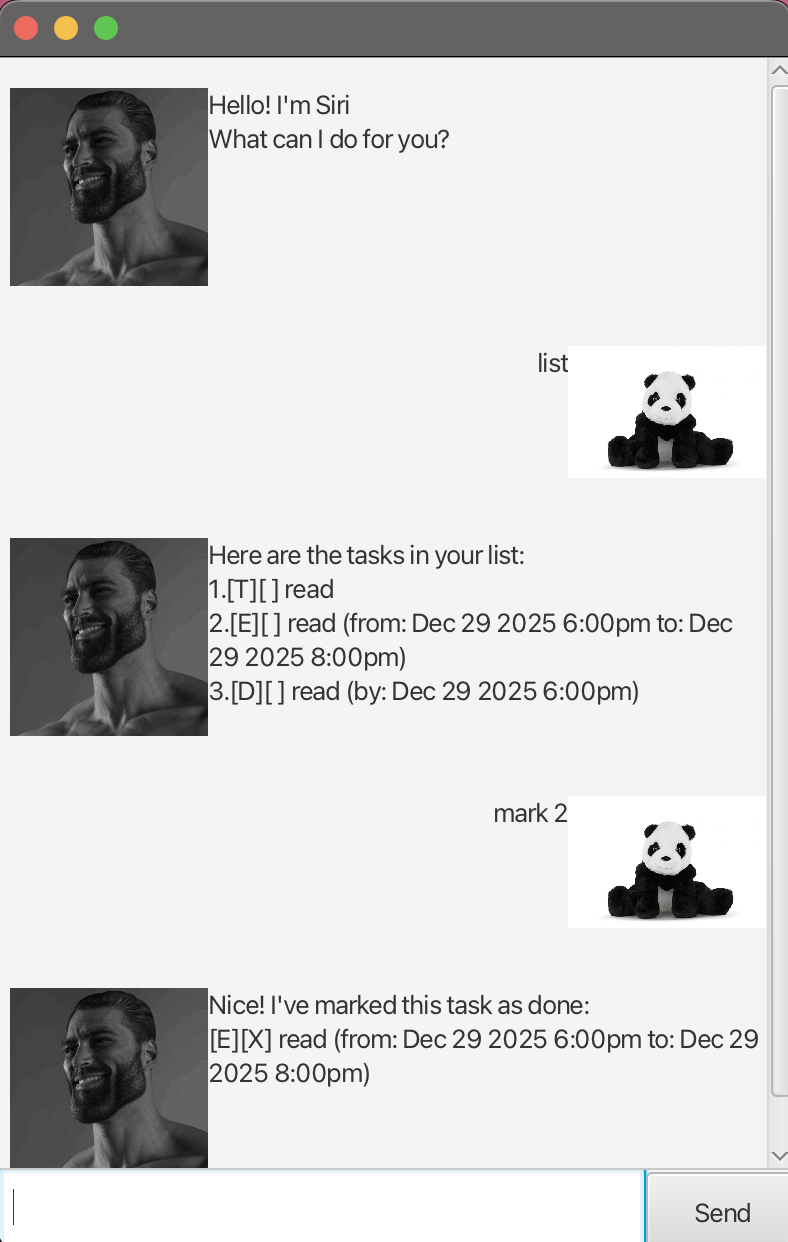
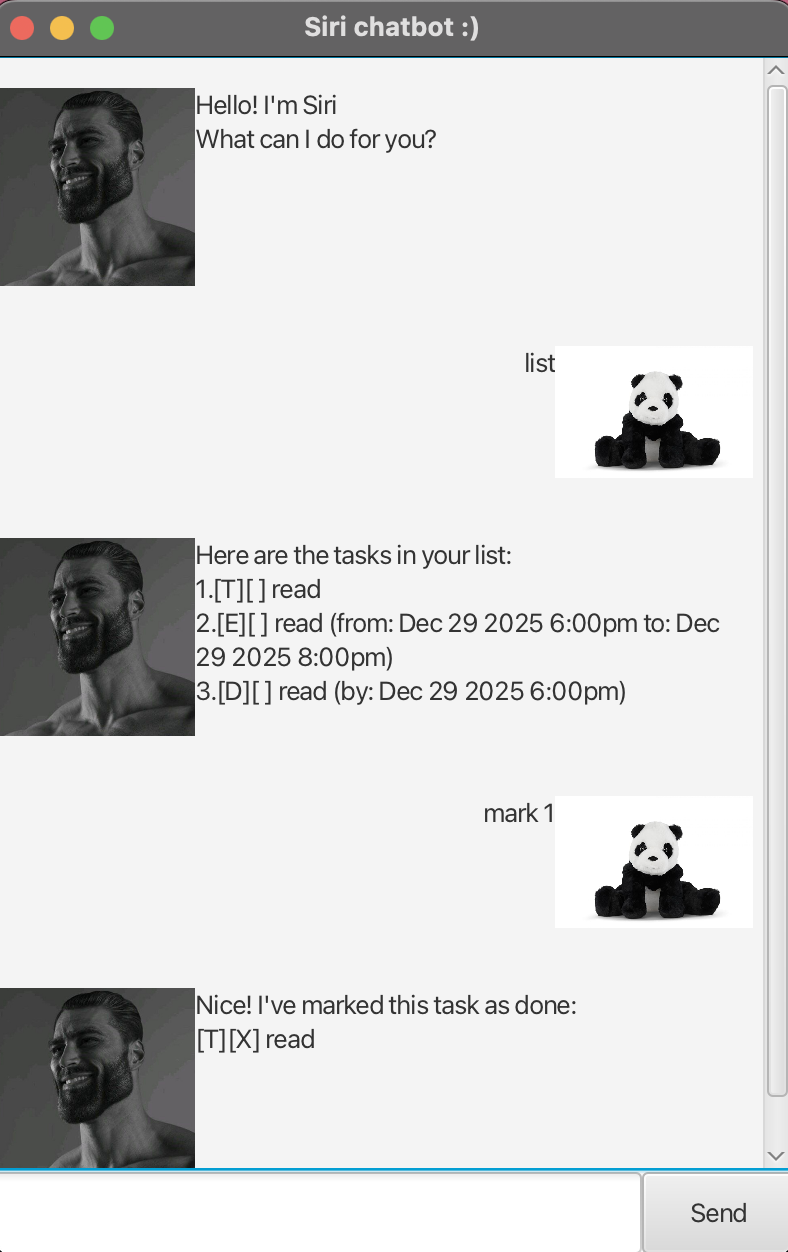
Add Siri title to GUI

diff --git a/src/main/java/siri/Main.java b/src/main/java/siri/Main.java
@@ -22,6 +22,7 @@ public class Main extends Application {
             AnchorPane ap = fxmlLoader.load();
             Scene scene = new Scene(ap);
             stage.setScene(scene);
+            stage.setTitle("Siri chatbot :)");
             fxmlLoader.<MainWindow>getController().setSiri(siri);  // inject the Siri instance
             stage.show();
         } catch (IOException e) {
